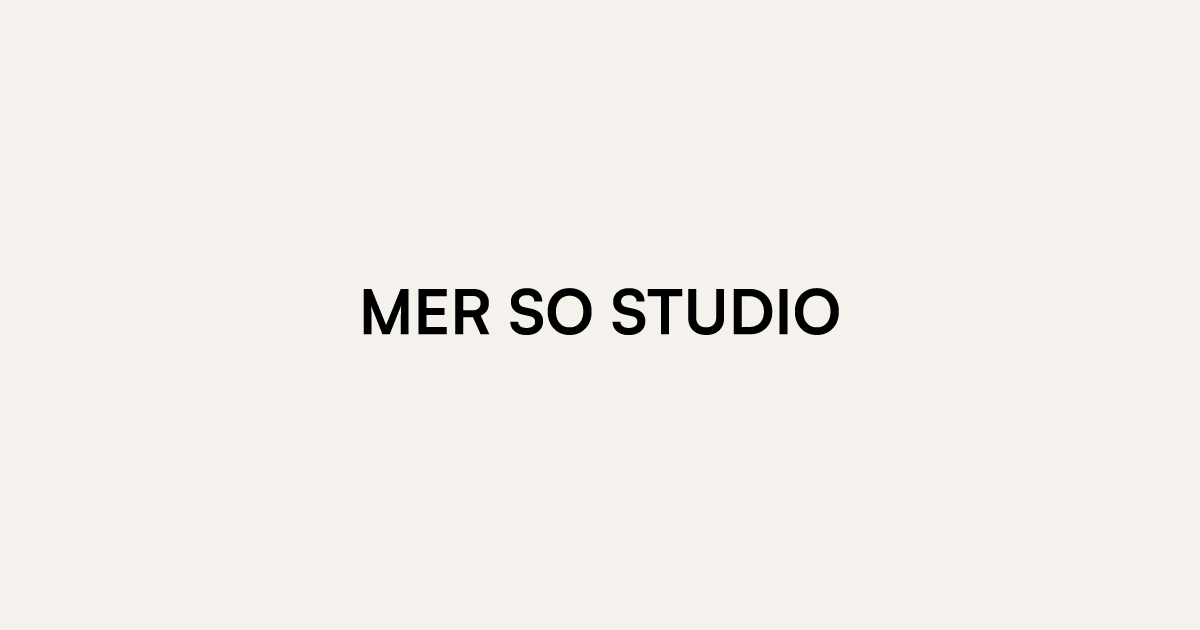
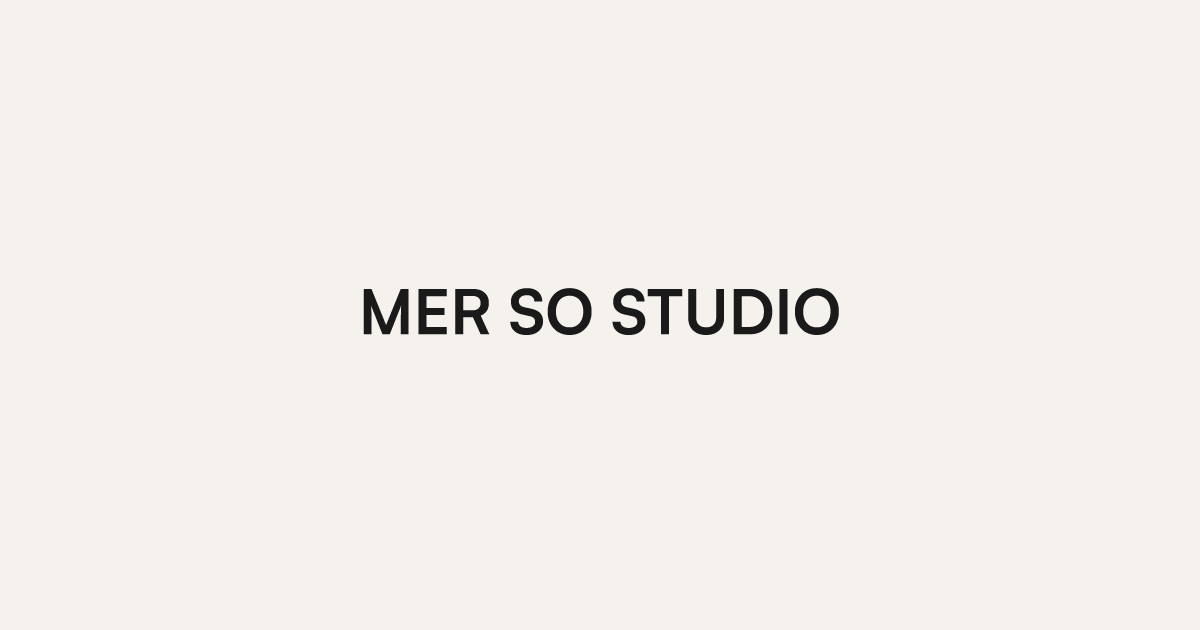
Tokenize spacing, add focus states, sync asset colors to tokens
Moves spin-badge styles into styles.css, adds a spacing scale of CSS
variables, adds :focus-visible outlines for keyboard nav, and recolors
the OG image text to match --text exactly.

Changed region(s): [[0.2775, 0.4524, 0.7092, 0.5429]]

diff --git a/styles.css b/styles.css
@@ -23,6 +23,18 @@
   --accent: #2961F6;
   --sub:    rgba(26,26,26,0.4);
   --border: rgba(26,26,26,0.12);
+
+  --space-8:   8px;
+  --space-10:  10px;
+  --space-12:  12px;
+  --space-24:  24px;
+  --space-28:  28px;
+  --space-32:  32px;
+  --space-40:  40px;
+  --space-48:  48px;
+  --space-80:  80px;
+  --space-120: 120px;
+  --space-360: 360px;
 }
 
 /* ── RESET ──────────────────────────────────────────── */
@@ -62,6 +74,12 @@ body {
 
 a { color: inherit; text-decoration: none; }
 
+a:focus-visible {
+  outline: 2px solid var(--accent);
+  outline-offset: 3px;
+  border-radius: 2px;
+}
+
 /* ── CURSOR ─────────────────────────────────────────── */
 #cursor {
   position: fixed;
@@ -79,18 +97,39 @@ a { color: inherit; text-decoration: none; }
   mix-blend-mode: difference;
 }
 
+/* ── SPIN BADGE ─────────────────────────────────────── */
+.spin-badge {
+  position: fixed;
+  right: var(--space-40);
+  top: var(--space-40);
+  width: var(--space-120);
+  height: var(--space-120);
+  animation: spin 14s linear infinite;
+}
+.spin-badge svg text {
+  font-family: var(--font-mono);
+  font-size: 8px;
+  letter-spacing: 0;
+  fill: var(--text);
+  text-transform: uppercase;
+}
+@keyframes spin {
+  from { transform: rotate(0deg); }
+  to   { transform: rotate(360deg); }
+}
+
 /* ── PAGE ───────────────────────────────────────────── */
 .page {
-  padding: 0 40px 32px;
+  padding: 0 var(--space-40) var(--space-32);
 }
 
 /* ── HERO GRID ──────────────────────────────────────── */
 .hero-grid {
   display: grid;
   grid-template-columns: 240px 1fr;
-  gap: 0 80px;
+  gap: 0 var(--space-80);
   align-items: start;
-  margin-bottom: 80px;
+  margin-bottom: var(--space-80);
 }
 
 .hero-left { padding-top: 0.1em; }
@@ -106,7 +145,7 @@ a { color: inherit; text-decoration: none; }
 .hero-right {
   display: flex;
   flex-direction: column;
-  gap: 28px;
+  gap: var(--space-28);
 }
 
 .hero-primary {
@@ -134,7 +173,7 @@ a { color: inherit; text-decoration: none; }
 .list-grid {
   display: grid;
   grid-template-columns: 1fr 1fr;
-  gap: 0 120px;
+  gap: 0 var(--space-120);
   align-items: start;
 }
 
@@ -145,7 +184,7 @@ a { color: inherit; text-decoration: none; }
   letter-spacing: 0.13em;
   text-transform: uppercase;
   color: var(--accent);
-  margin-bottom: 10px;
+  margin-bottom: var(--space-10);
 }
 
 hr.div {
@@ -157,8 +196,8 @@ hr.div {
 .li {
   display: flex;
   align-items: baseline;
-  gap: 12px;
-  padding: 8px 0;
+  gap: var(--space-12);
+  padding: var(--space-8) 0;
   border-bottom: 1px solid var(--border);
 }
 
@@ -211,7 +250,7 @@ a.li:hover .s { opacity: 0.6; }
 
 /* ── ABOUT ──────────────────────────────────────────── */
 .about {
-  margin-top: 80px;
+  margin-top: var(--space-80);
 }
 
 .about p {
@@ -229,11 +268,11 @@ a.li:hover .s { opacity: 0.6; }
 
 /* ── FOOTER ─────────────────────────────────────────── */
 footer {
-  margin-top: 80px;
+  margin-top: var(--space-80);
   display: flex;
   justify-content: space-between;
   align-items: baseline;
-  gap: 24px;
+  gap: var(--space-24);
   flex-wrap: wrap;
 }
 
@@ -257,16 +296,16 @@ footer a:hover { opacity: 0.6; }
 }
 
 @media (max-width: 680px) {
-  .page { padding: 28px 28px 120px; }
-  .wordmark { top: 28px !important; left: 28px !important; }
+  .page { padding: var(--space-28) var(--space-28) var(--space-120); }
+  .wordmark { top: var(--space-28) !important; left: var(--space-28) !important; }
   .hero-attribution { font-size: 0.95rem !important; }
-  .list-grid { grid-template-columns: 1fr; gap: 40px 0; }
-  .about { margin-top: 48px; }
+  .list-grid { grid-template-columns: 1fr; gap: var(--space-40) 0; }
+  .about { margin-top: var(--space-48); }
   footer {
     left: 0 !important;
     right: 0 !important;
-    padding: 0 28px !important;
-    bottom: 28px !important;
+    padding: 0 var(--space-28) !important;
+    bottom: var(--space-28) !important;
   }
-  .spin-badge { width: 80px; height: 80px; right: 28px !important; top: 28px !important; }
+  .spin-badge { width: var(--space-80); height: var(--space-80); right: var(--space-28) !important; top: var(--space-28) !important; }
 }

diff --git a/index.html b/index.html
@@ -22,48 +22,29 @@
   <style>
     .wordmark {
       position: fixed;
-      top: 40px;
-      left: 40px;
+      top: var(--space-40);
+      left: var(--space-40);
       z-index: 10;
     }
     .hero-right {
       max-width: 820px;
-      padding-top: clamp(80px, 34vh, 360px);
+      padding-top: clamp(var(--space-80), 34vh, var(--space-360));
     }
     .hero-attribution {
-      margin-top: 28px;
+      margin-top: var(--space-28);
     }
     footer {
       position: fixed;
-      bottom: 40px;
+      bottom: var(--space-40);
       left: 0;
       right: 0;
-      padding: 0 40px;
+      padding: 0 var(--space-40);
     }
     .page {
-      padding-bottom: 120px;
+      padding-bottom: var(--space-120);
     }
     @media (max-height: 560px) {
       .hero-right { padding-top: 72px !important; }
-    }
-    .spin-badge {
-      position: fixed;
-      right: 40px;
-      top: 40px;
-      width: 120px;
-      height: 120px;
-      animation: spin 14s linear infinite;
-    }
-    .spin-badge svg text {
-      font-family: var(--font-mono);
-      font-size: 8px;
-      letter-spacing: 0;
-      fill: var(--text);
-      text-transform: uppercase;
-    }
-    @keyframes spin {
-      from { transform: rotate(0deg); }
-      to   { transform: rotate(360deg); }
     }
   </style>
 </head>
